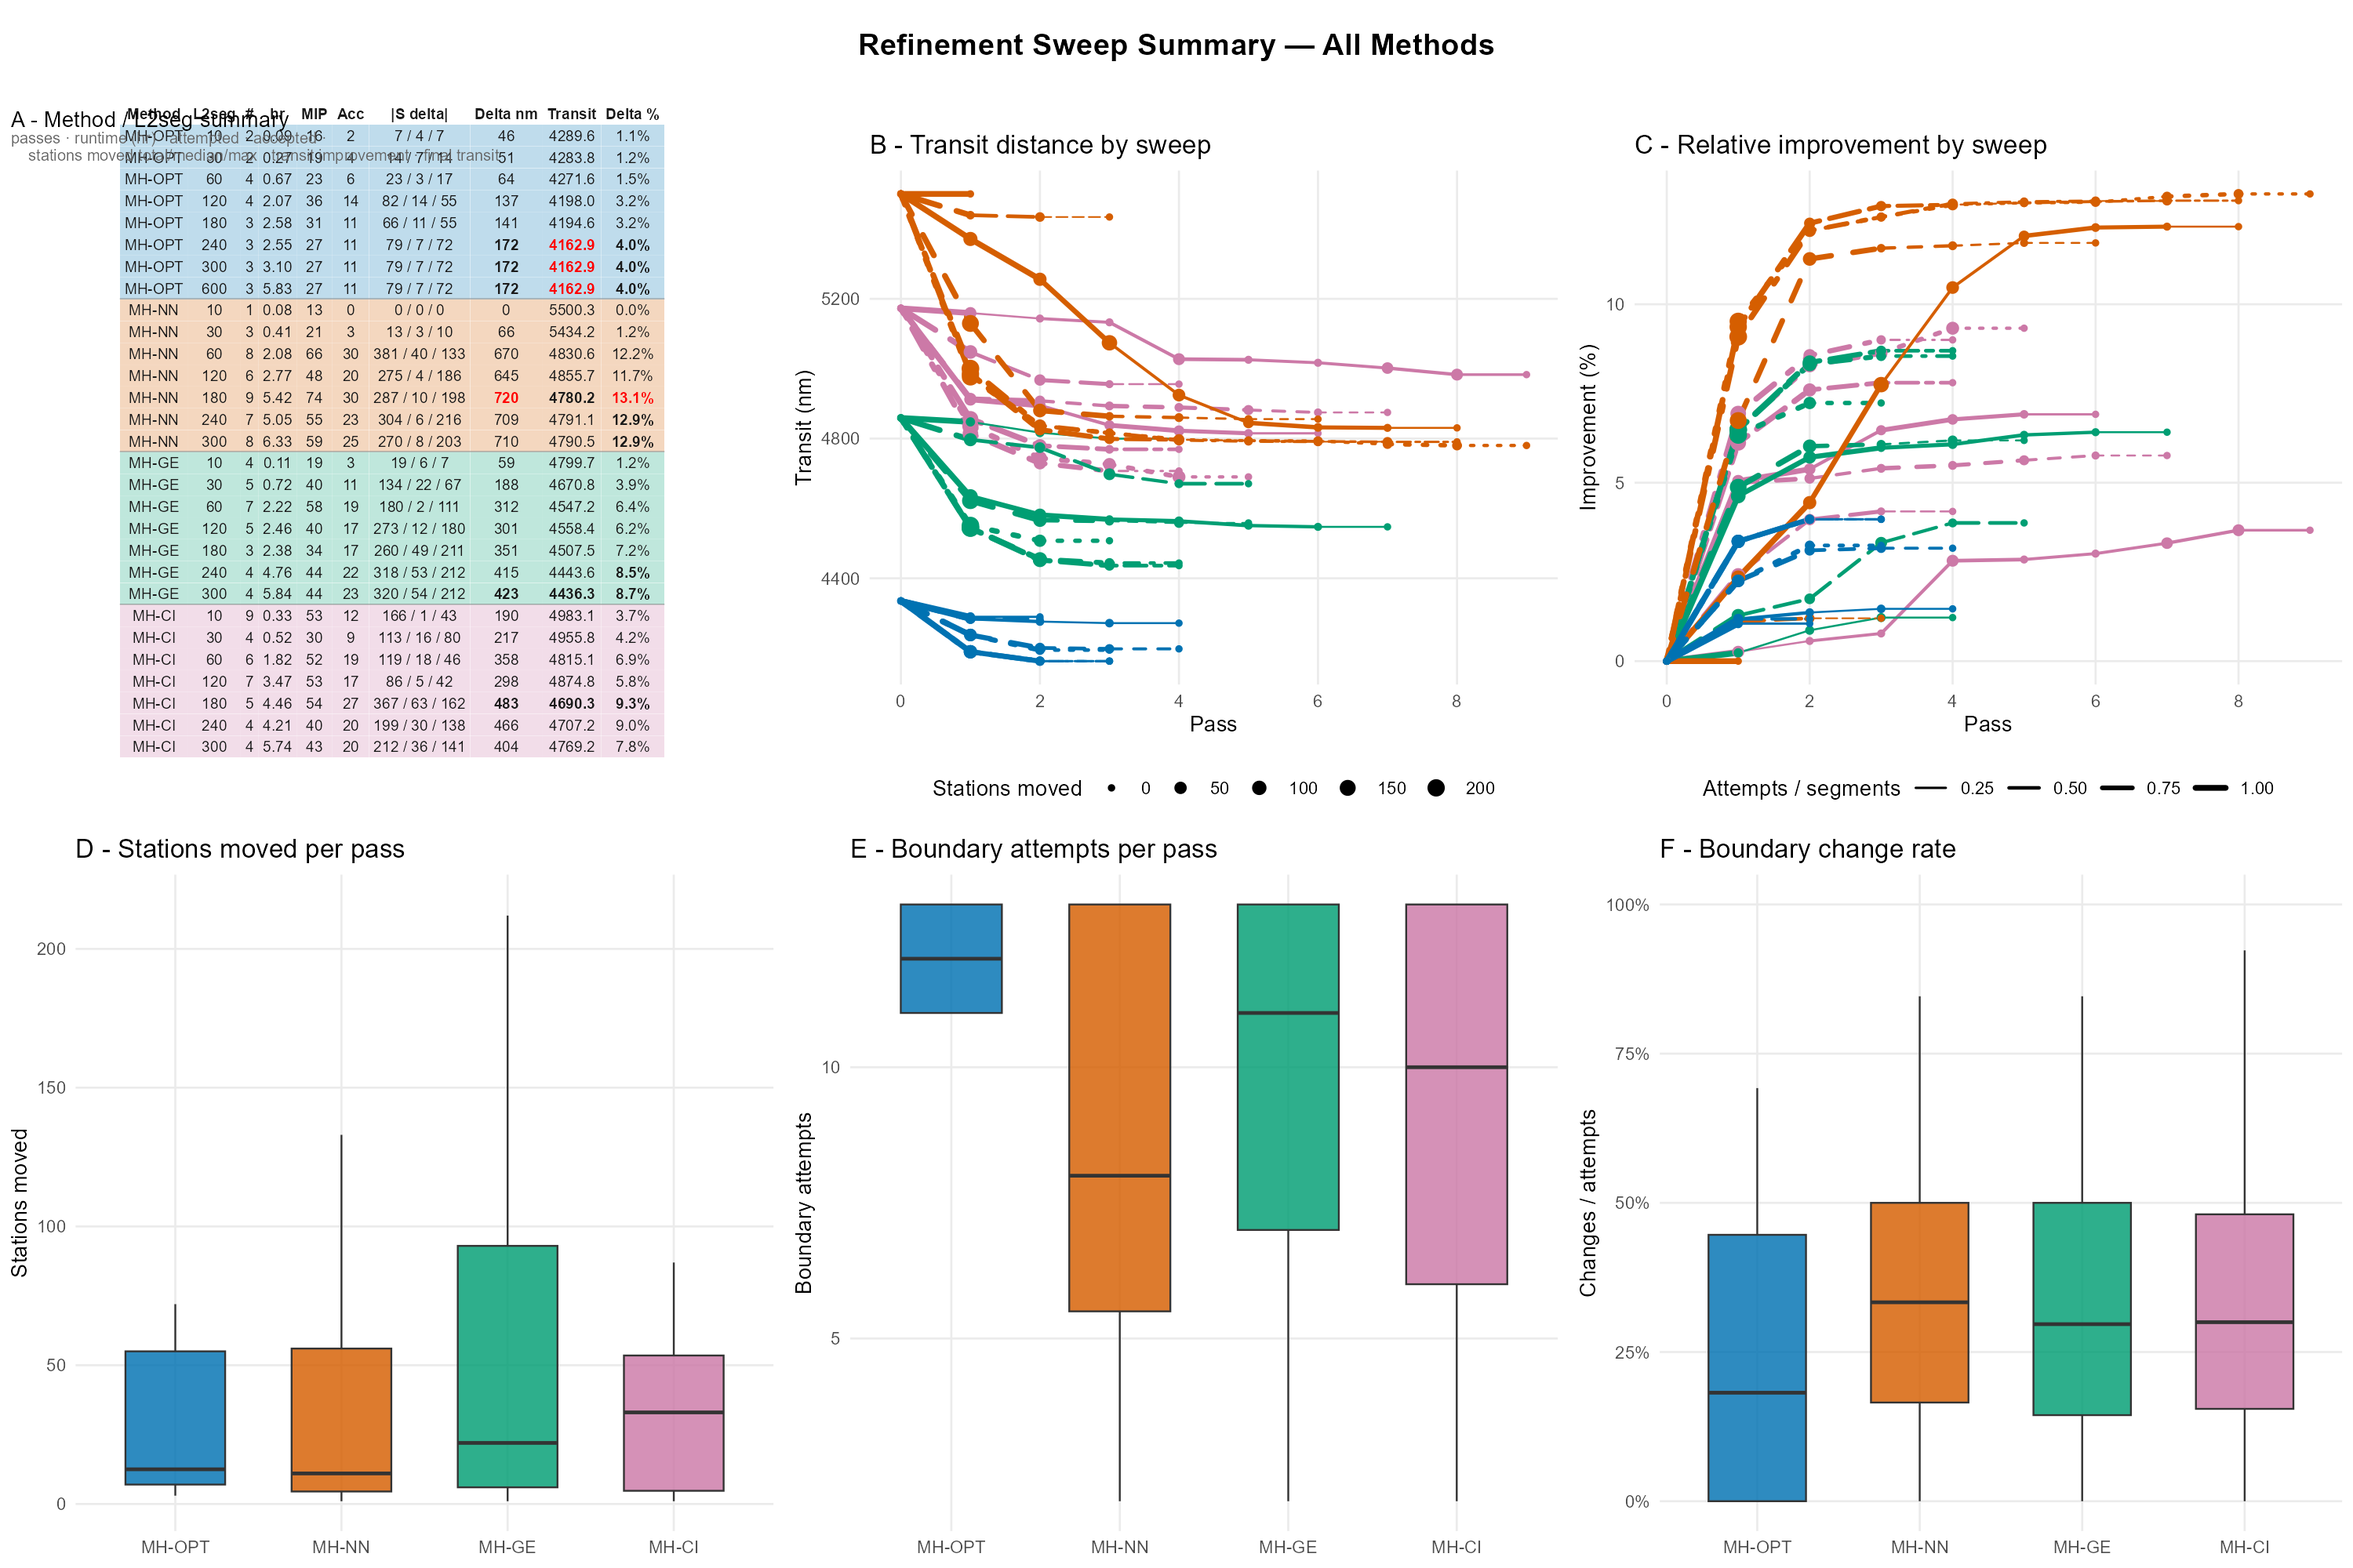
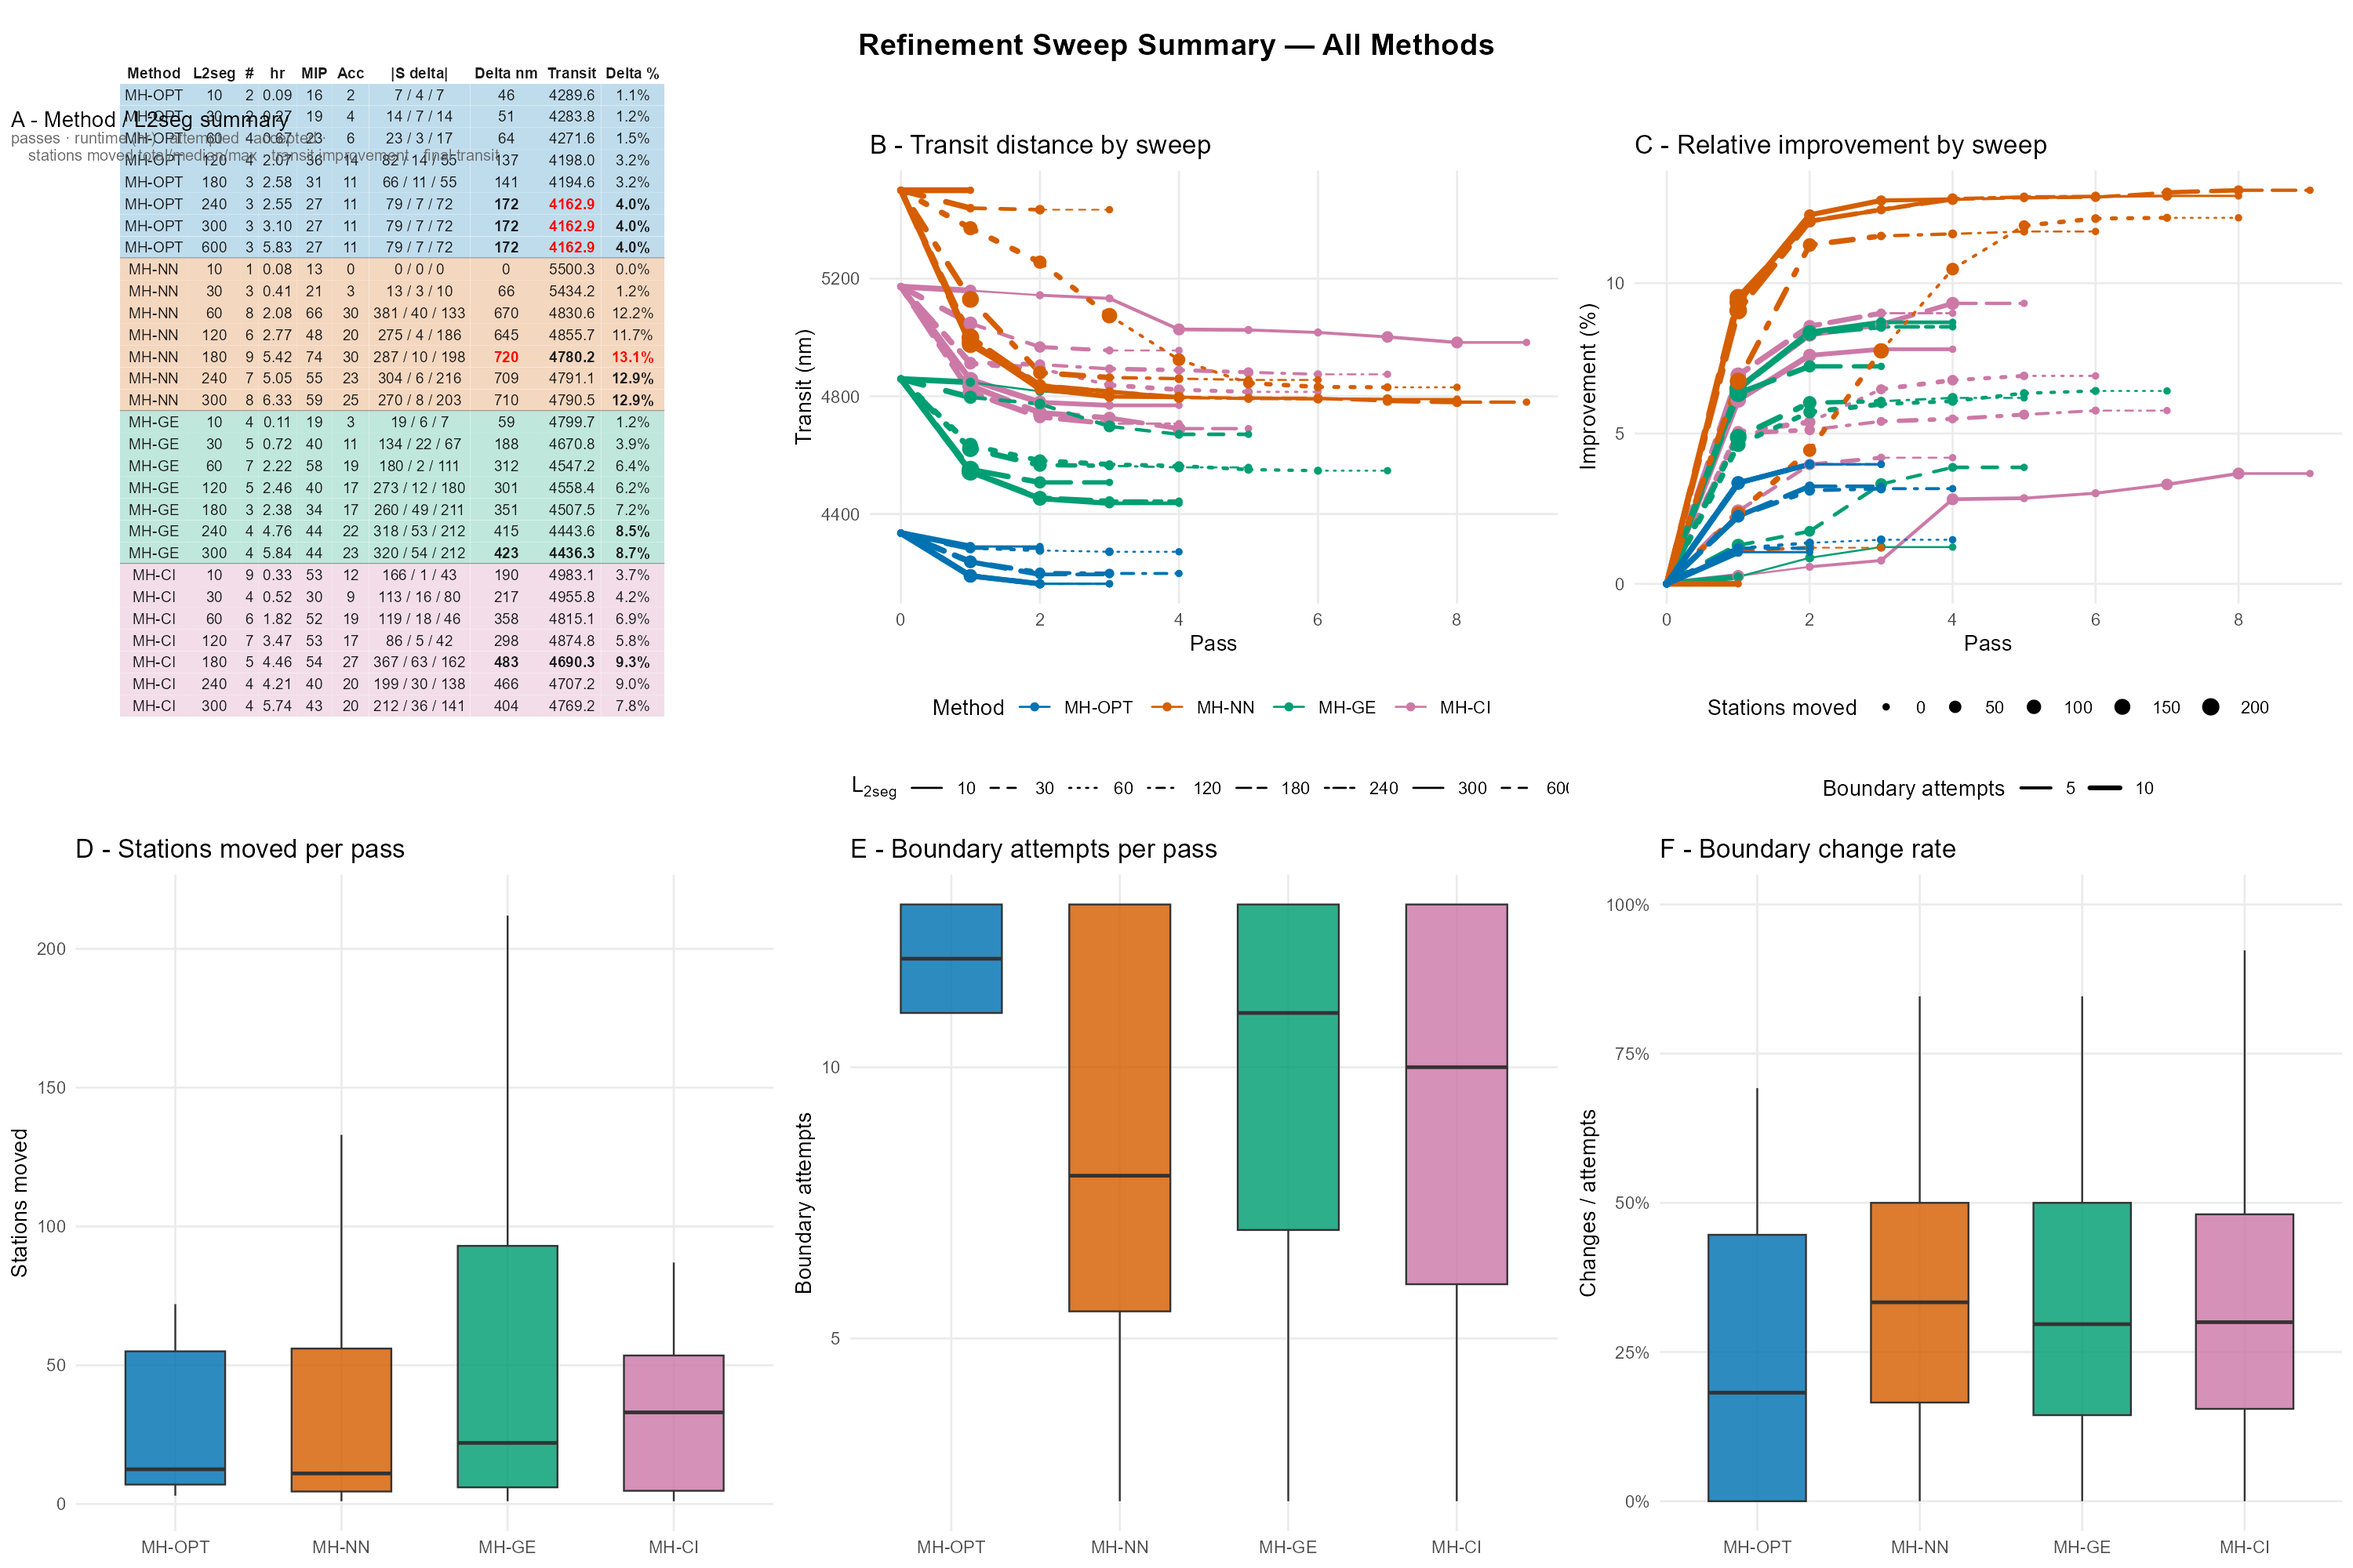
refactor: reorganize plot generation and update terminology in `plot_refinement_sweep.R`
- Adjusted `method_order` for consistency.
- Standardized terminology: replaced "pass" with "sweep" across plots and tables.
- Enhanced legends and guides for better customization and clarity.
- Improved LaTeX table generation with whitespace trimming and file handling changes.
- Refined ggplot aesthetics, including legend positioning and line thickness.

diff --git a/sol/refinement_sweep_C_table.tex b/sol/refinement_sweep_C_table.tex
@@ -7,35 +7,35 @@
 Method & L2seg & Passes & Runtime (hr) & Attempts & Accepted & S moved total & S moved median & S moved max & Transit nm & Delta nm & Delta pct
 \\
 \midrule
-MH-OPT & 10 & 2 & 0.09 & 16 &  2 &   7 & 4 & 7 & 4289.6 & 46 & 1.1 \\
-MH-OPT & 30 & 2 & 0.27 & 19 &  4 &  14 & 7 & 14 & 4283.8 & 51 & 1.2 \\
-MH-OPT & 60 & 4 & 0.67 & 23 &  6 &  23 & 3 & 17 & 4271.6 & 64 & 1.5 \\
-MH-OPT & 120 & 4 & 2.07 & 36 & 14 &  82 & 14 & 55 & 4198.0 & 137 & 3.2 \\
-MH-OPT & 180 & 3 & 2.58 & 31 & 11 &  66 & 11 & 55 & 4194.6 & 141 & 3.2 \\
-MH-OPT & 240 & 3 & 2.55 & 27 & 11 &  79 & 7 & 72 & 4162.9 & 172 & 4.0 \\
-MH-OPT & 300 & 3 & 3.10 & 27 & 11 &  79 & 7 & 72 & 4162.9 & 172 & 4.0 \\
-MH-OPT & 600 & 3 & 5.83 & 27 & 11 &  79 & 7 & 72 & 4162.9 & 172 & 4.0 \\
-MH-NN & 10 & 1 & 0.08 & 13 &  0 &   0 & 0 & 0 & 5500.3 & 0 & 0.0 \\
-MH-NN & 30 & 3 & 0.41 & 21 &  3 &  13 & 3 & 10 & 5434.2 & 66 & 1.2 \\
-MH-NN & 60 & 8 & 2.08 & 66 & 30 & 381 & 40 & 133 & 4830.6 & 670 & 12.2 \\
-MH-NN & 120 & 6 & 2.77 & 48 & 20 & 275 & 4 & 186 & 4855.7 & 645 & 11.7 \\
-MH-NN & 180 & 9 & 5.42 & 74 & 30 & 287 & 10 & 198 & 4780.2 & 720 & 13.1 \\
-MH-NN & 240 & 7 & 5.05 & 55 & 23 & 304 & 6 & 216 & 4791.1 & 709 & 12.9 \\
-MH-NN & 300 & 8 & 6.33 & 59 & 25 & 270 & 8 & 203 & 4790.5 & 710 & 12.9 \\
-MH-GE & 10 & 4 & 0.11 & 19 &  3 &  19 & 6 & 7 & 4799.7 & 59 & 1.2 \\
-MH-GE & 30 & 5 & 0.72 & 40 & 11 & 134 & 22 & 67 & 4670.8 & 188 & 3.9 \\
-MH-GE & 60 & 7 & 2.22 & 58 & 19 & 180 & 2 & 111 & 4547.2 & 312 & 6.4 \\
-MH-GE & 120 & 5 & 2.46 & 40 & 17 & 273 & 12 & 180 & 4558.4 & 301 & 6.2 \\
-MH-GE & 180 & 3 & 2.38 & 34 & 17 & 260 & 49 & 211 & 4507.5 & 351 & 7.2 \\
-MH-GE & 240 & 4 & 4.76 & 44 & 22 & 318 & 53 & 212 & 4443.6 & 415 & 8.5 \\
-MH-GE & 300 & 4 & 5.84 & 44 & 23 & 320 & 54 & 212 & 4436.3 & 423 & 8.7 \\
-MH-CI & 10 & 9 & 0.33 & 53 & 12 & 166 & 1 & 43 & 4983.1 & 190 & 3.7 \\
-MH-CI & 30 & 4 & 0.52 & 30 &  9 & 113 & 16 & 80 & 4955.8 & 217 & 4.2 \\
-MH-CI & 60 & 6 & 1.82 & 52 & 19 & 119 & 18 & 46 & 4815.1 & 358 & 6.9 \\
-MH-CI & 120 & 7 & 3.47 & 53 & 17 &  86 & 5 & 42 & 4874.8 & 298 & 5.8 \\
-MH-CI & 180 & 5 & 4.46 & 54 & 27 & 367 & 63 & 162 & 4690.3 & 483 & 9.3 \\
-MH-CI & 240 & 4 & 4.21 & 40 & 20 & 199 & 30 & 138 & 4707.2 & 466 & 9.0 \\
-MH-CI & 300 & 4 & 5.74 & 43 & 20 & 212 & 36 & 141 & 4769.2 & 404 & 7.8 \\
+MH-NN & 10 & 1 & 0.08 & 13 & 0 & 0 & 0 & 0 & 5500.3 & 0 & 0.0\\%
+MH-NN & 30 & 3 & 0.41 & 21 & 3 & 13 & 3 & 10 & 5434.2 & 66 & 1.2\\%
+MH-NN & 60 & 8 & 2.08 & 66 & 30 & 381 & 40 & 133 & 4830.6 & 670 & 12.2\\%
+MH-NN & 120 & 6 & 2.77 & 48 & 20 & 275 & 4 & 186 & 4855.7 & 645 & 11.7\\%
+MH-NN & 180 & 9 & 5.42 & 74 & 30 & 287 & 10 & 198 & 4780.2 & 720 & 13.1\\%
+MH-NN & 240 & 7 & 5.05 & 55 & 23 & 304 & 6 & 216 & 4791.1 & 709 & 12.9\\%
+MH-NN & 300 & 8 & 6.33 & 59 & 25 & 270 & 8 & 203 & 4790.5 & 710 & 12.9\\%
+MH-CI & 10 & 9 & 0.33 & 53 & 12 & 166 & 1 & 43 & 4983.1 & 190 & 3.7\\%
+MH-CI & 30 & 4 & 0.52 & 30 & 9 & 113 & 16 & 80 & 4955.8 & 217 & 4.2\\%
+MH-CI & 60 & 6 & 1.82 & 52 & 19 & 119 & 18 & 46 & 4815.1 & 358 & 6.9\\%
+MH-CI & 120 & 7 & 3.47 & 53 & 17 & 86 & 5 & 42 & 4874.8 & 298 & 5.8\\%
+MH-CI & 180 & 5 & 4.46 & 54 & 27 & 367 & 63 & 162 & 4690.3 & 483 & 9.3\\%
+MH-CI & 240 & 4 & 4.21 & 40 & 20 & 199 & 30 & 138 & 4707.2 & 466 & 9.0\\%
+MH-CI & 300 & 4 & 5.74 & 43 & 20 & 212 & 36 & 141 & 4769.2 & 404 & 7.8\\%
+MH-GE & 10 & 4 & 0.11 & 19 & 3 & 19 & 6 & 7 & 4799.7 & 59 & 1.2\\%
+MH-GE & 30 & 5 & 0.72 & 40 & 11 & 134 & 22 & 67 & 4670.8 & 188 & 3.9\\%
+MH-GE & 60 & 7 & 2.22 & 58 & 19 & 180 & 2 & 111 & 4547.2 & 312 & 6.4\\%
+MH-GE & 120 & 5 & 2.46 & 40 & 17 & 273 & 12 & 180 & 4558.4 & 301 & 6.2\\%
+MH-GE & 180 & 3 & 2.38 & 34 & 17 & 260 & 49 & 211 & 4507.5 & 351 & 7.2\\%
+MH-GE & 240 & 4 & 4.76 & 44 & 22 & 318 & 53 & 212 & 4443.6 & 415 & 8.5\\%
+MH-GE & 300 & 4 & 5.84 & 44 & 23 & 320 & 54 & 212 & 4436.3 & 423 & 8.7\\%
+MH-OPT & 10 & 2 & 0.09 & 16 & 2 & 7 & 4 & 7 & 4289.6 & 46 & 1.1\\%
+MH-OPT & 30 & 2 & 0.27 & 19 & 4 & 14 & 7 & 14 & 4283.8 & 51 & 1.2\\%
+MH-OPT & 60 & 4 & 0.67 & 23 & 6 & 23 & 3 & 17 & 4271.6 & 64 & 1.5\\%
+MH-OPT & 120 & 4 & 2.07 & 36 & 14 & 82 & 14 & 55 & 4198.0 & 137 & 3.2\\%
+MH-OPT & 180 & 3 & 2.58 & 31 & 11 & 66 & 11 & 55 & 4194.6 & 141 & 3.2\\%
+MH-OPT & 240 & 3 & 2.55 & 27 & 11 & 79 & 7 & 72 & 4162.9 & 172 & 4.0\\%
+MH-OPT & 300 & 3 & 3.10 & 27 & 11 & 79 & 7 & 72 & 4162.9 & 172 & 4.0\\%
+MH-OPT & 600 & 3 & 5.83 & 27 & 11 & 79 & 7 & 72 & 4162.9 & 172 & 4.0\\%
 \bottomrule
 \end{tabular}
 \end{table}
